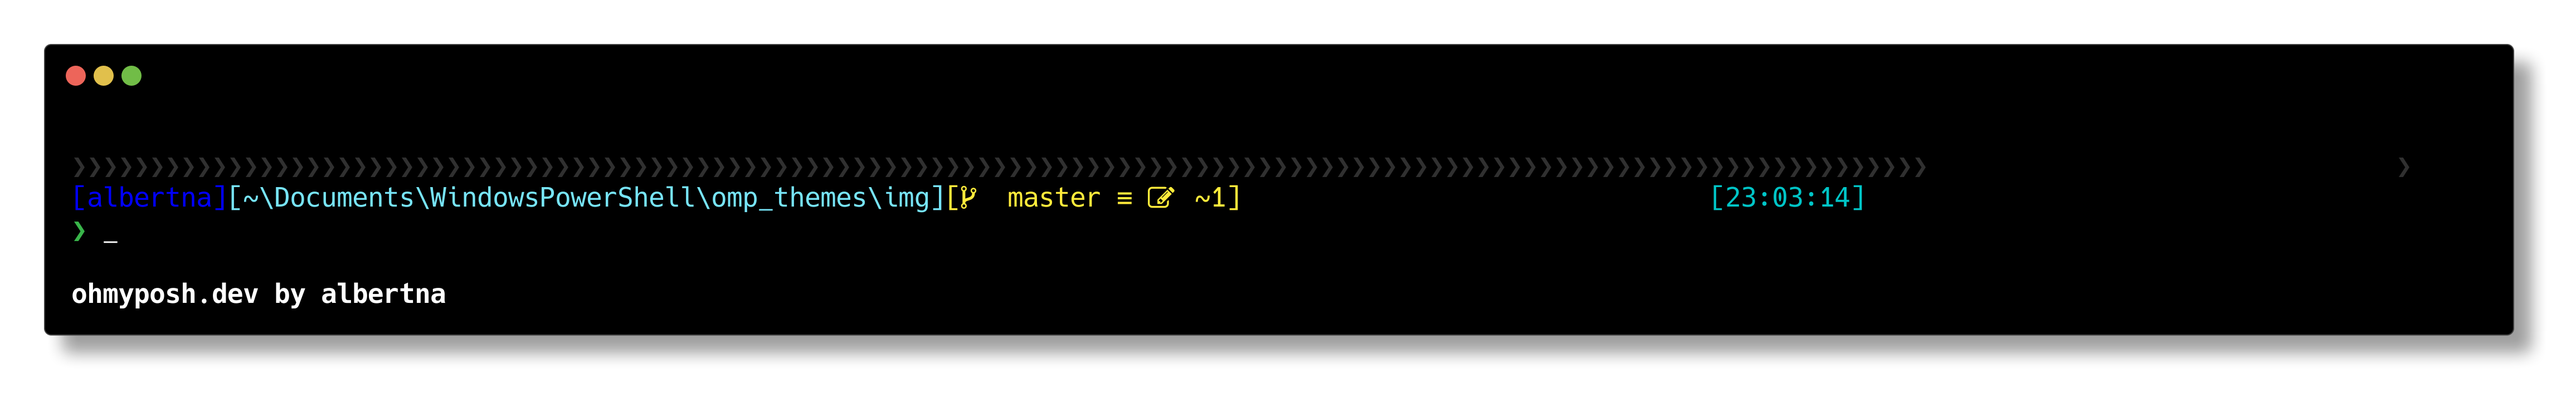
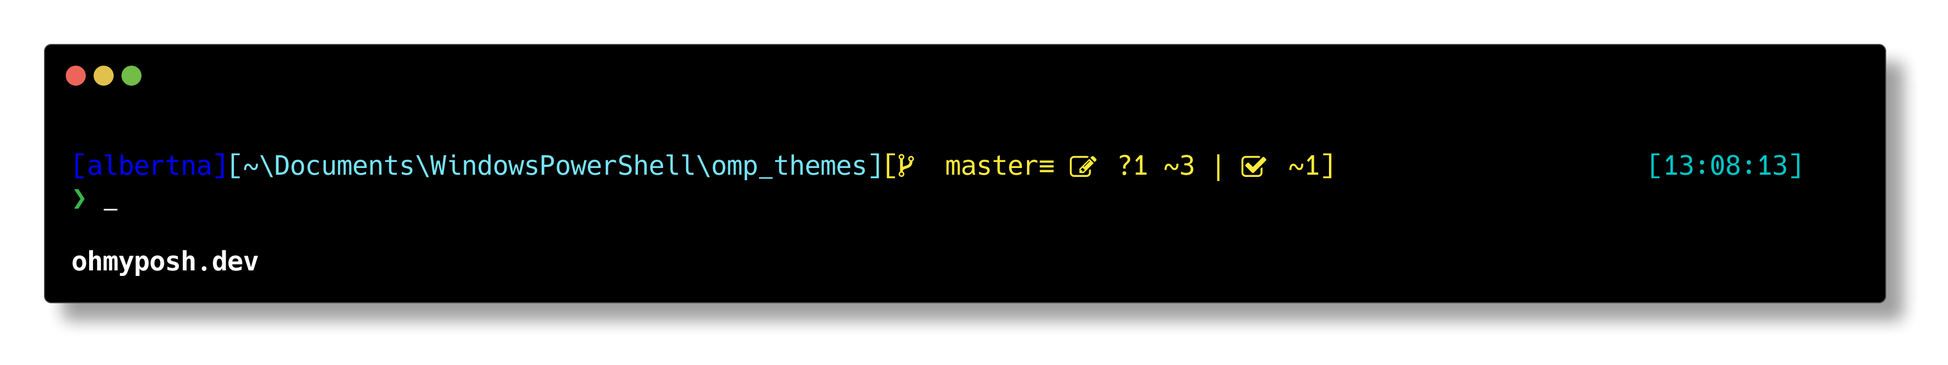
Remove separation line from themes, update readme

Changed region(s): [[0.0, 0.0915, 0.9977, 0.9146], [0.8418, 0.4268, 0.9354, 0.4878]]

diff --git a/README.md b/README.md
@@ -1,9 +1,25 @@
 # My Oh-My-Posh themes
 
-## Fluent
+## Fluent theme
 
 ![fluent](./img/fluent.png)
 
-## Blocks
+## Blocks theme
 
 ![blocks](./img/blocks.png)
+
+## Usage
+
+In `Microsoft.Powershell_profile.ps1`:
+
+```Powershell
+$env:VIRTUAL_ENV_DISABLE_PROMPT=1
+
+oh-my-posh init pwsh --config '~/Documents/WindowsPowerShell/omp_themes/blocks.json' | Invoke-Expression
+# Enable-PoshTransientPrompt
+
+Import-Module posh-git
+$env:POSH_GIT_ENABLED = $true
+# $GitPromptSettings.BeforeStatus = ''
+# $GitPromptSettings.AfterStatus = ''
+```
